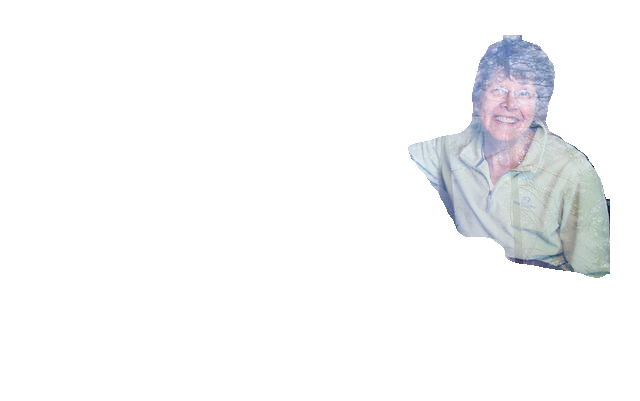
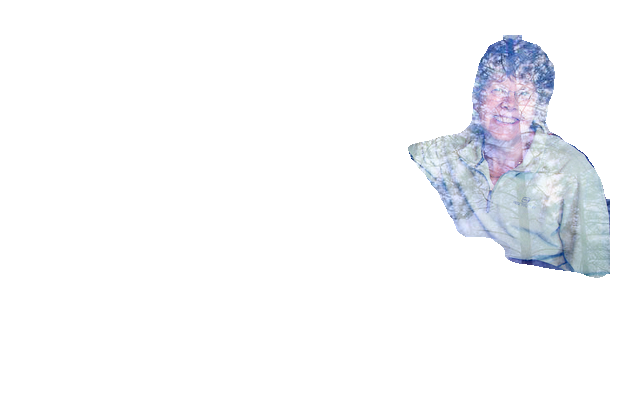
modified:   dbexpos_image.png 	modified:   demo.py 	modified:   plot.png 	modified:   visualize.py

Changed region(s): [[0.625, 0.0898, 0.9688, 0.6883]]

diff --git a/visualize.py b/visualize.py
@@ -28,6 +28,7 @@ import utils
 import scipy.misc
 import os
 import skimage.io
+from PIL import Image
 ############################################################
 #  Visualization
 ############################################################
@@ -157,13 +158,19 @@ def display_instances(image, background, i, boxes, masks, class_ids, class_names
    
     if masked_image.size != background.size:
         height,width = masked_image.shape[:2]
-        b_height,b_width = background.shape[:2]
-        top_y = int(np.floor((b_height-height)/2))
-        bottom_y = int(np.ceil((b_height+height)/2))
-        left_x = int(np.floor((b_width-width)/2))
-        right_x = int(np.ceil((b_width+width)/2))
-        background = background[top_y:bottom_y:,left_x:right_x]
-        
+        if height > width:
+            background.thumbnail((height,50000))
+        else :
+            background.thumbnail((50000,width))
+        background = np.array(background)/255
+        #b_height,b_width = background.shape[:2]
+        #top_y = int(np.floor((b_height-height)/2))
+        #bottom_y = int(np.ceil((b_height+height)/2))
+        #left_x = int(np.floor((b_width-width)/2))
+        #right_x = int(np.ceil((b_width+width)/2))
+        background = background[0:height,0:width]
+    else:
+        background = np.array(background)/255    
     background = nosefilter(background)
     dbexpos_image = screen(masked_image,background)
     scipy.misc.toimage(dbexpos_image).save('dbexpos_image.png')

diff --git a/demo.py b/demo.py
@@ -11,6 +11,7 @@ import coco
 import utils
 import model as modellib
 import visualize
+from PIL import Image
 from time import time
 
  
@@ -66,7 +67,7 @@ class_names = ['BG', 'person', 'bicycle', 'car', 'motorcycle', 'airplane',
 # Load a random image from the images folder
 file_names = next(os.walk(IMAGE_DIR))[2]
 image = skimage.io.imread(os.path.join(IMAGE_DIR, 'IMG_0040.JPG'))
-background_image = skimage.io.imread(os.path.join(IMAGE_DIR,'IMG_0062.JPG'))/255
+background_image = Image.open(os.path.join(IMAGE_DIR,'IMG_0062.JPG'))
 # Run detection
 results = model.detect([image], verbose=1)
 #print(results)
